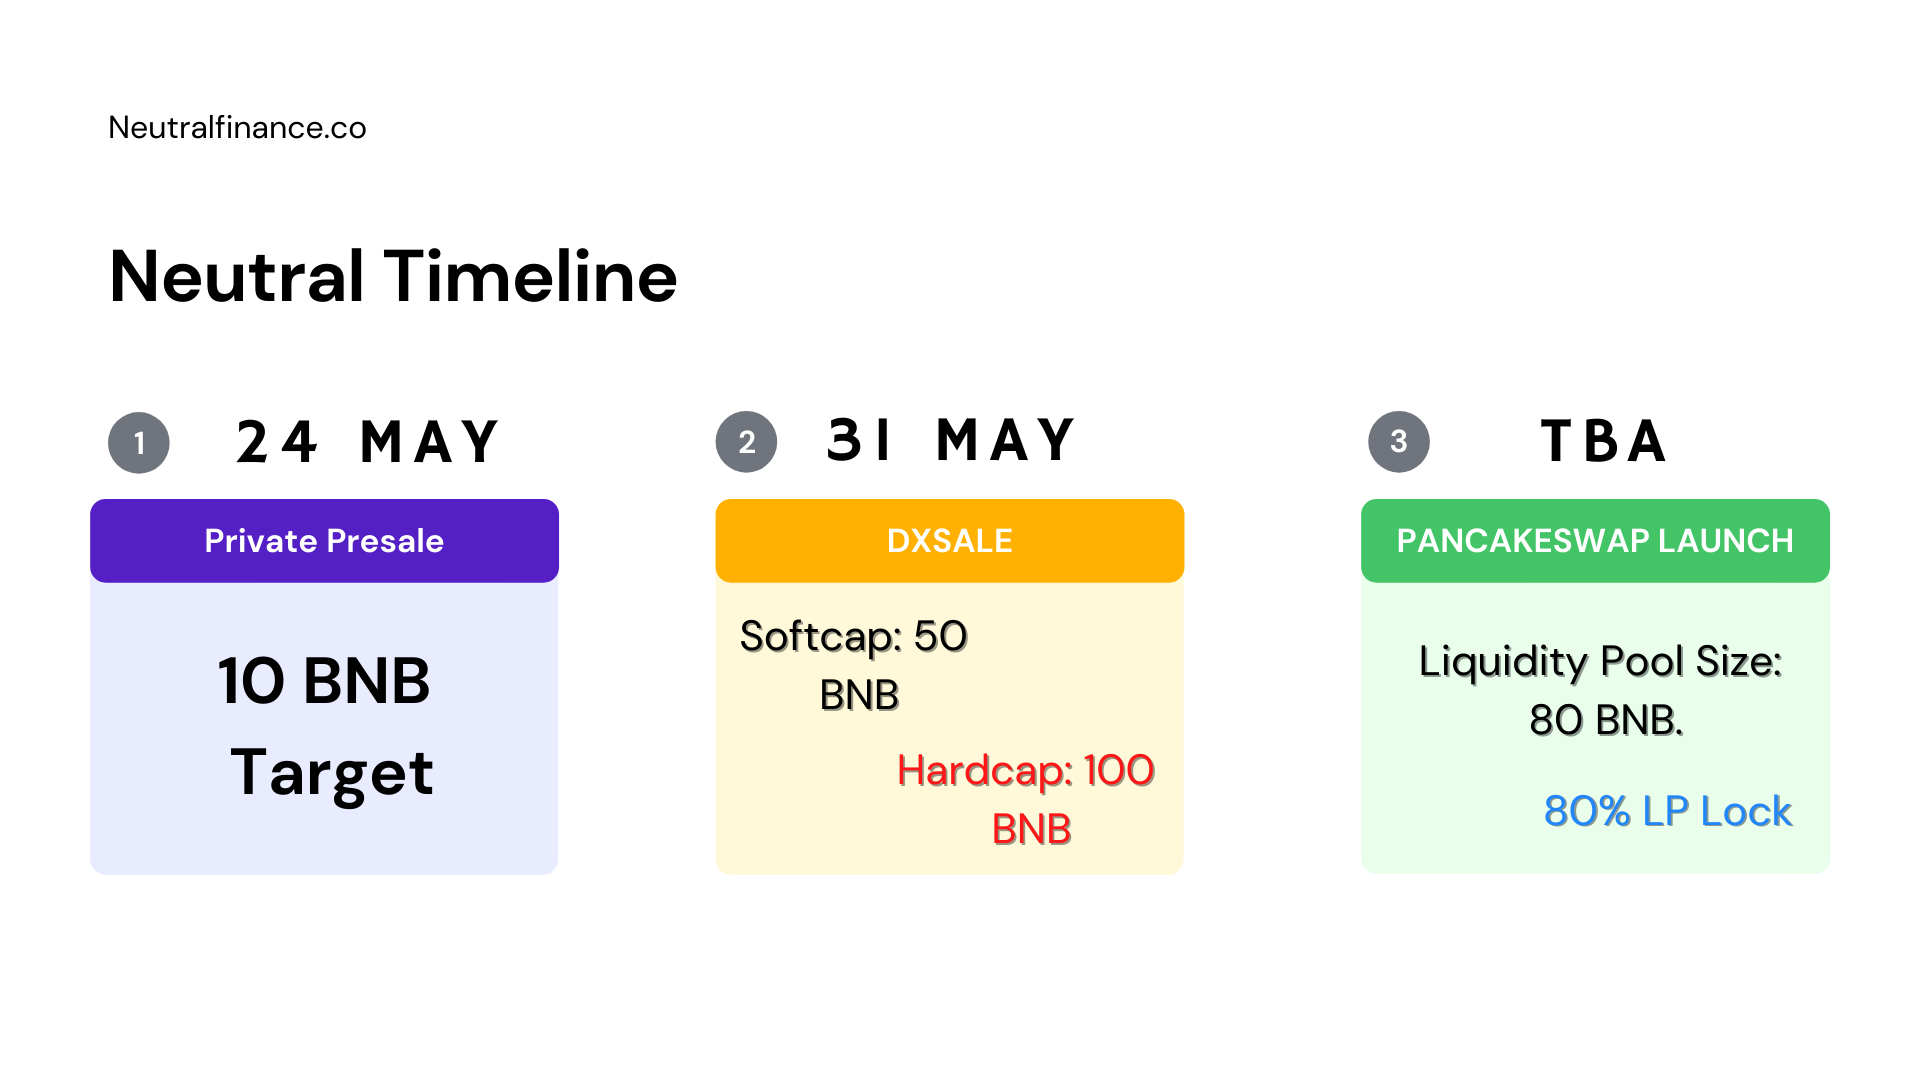
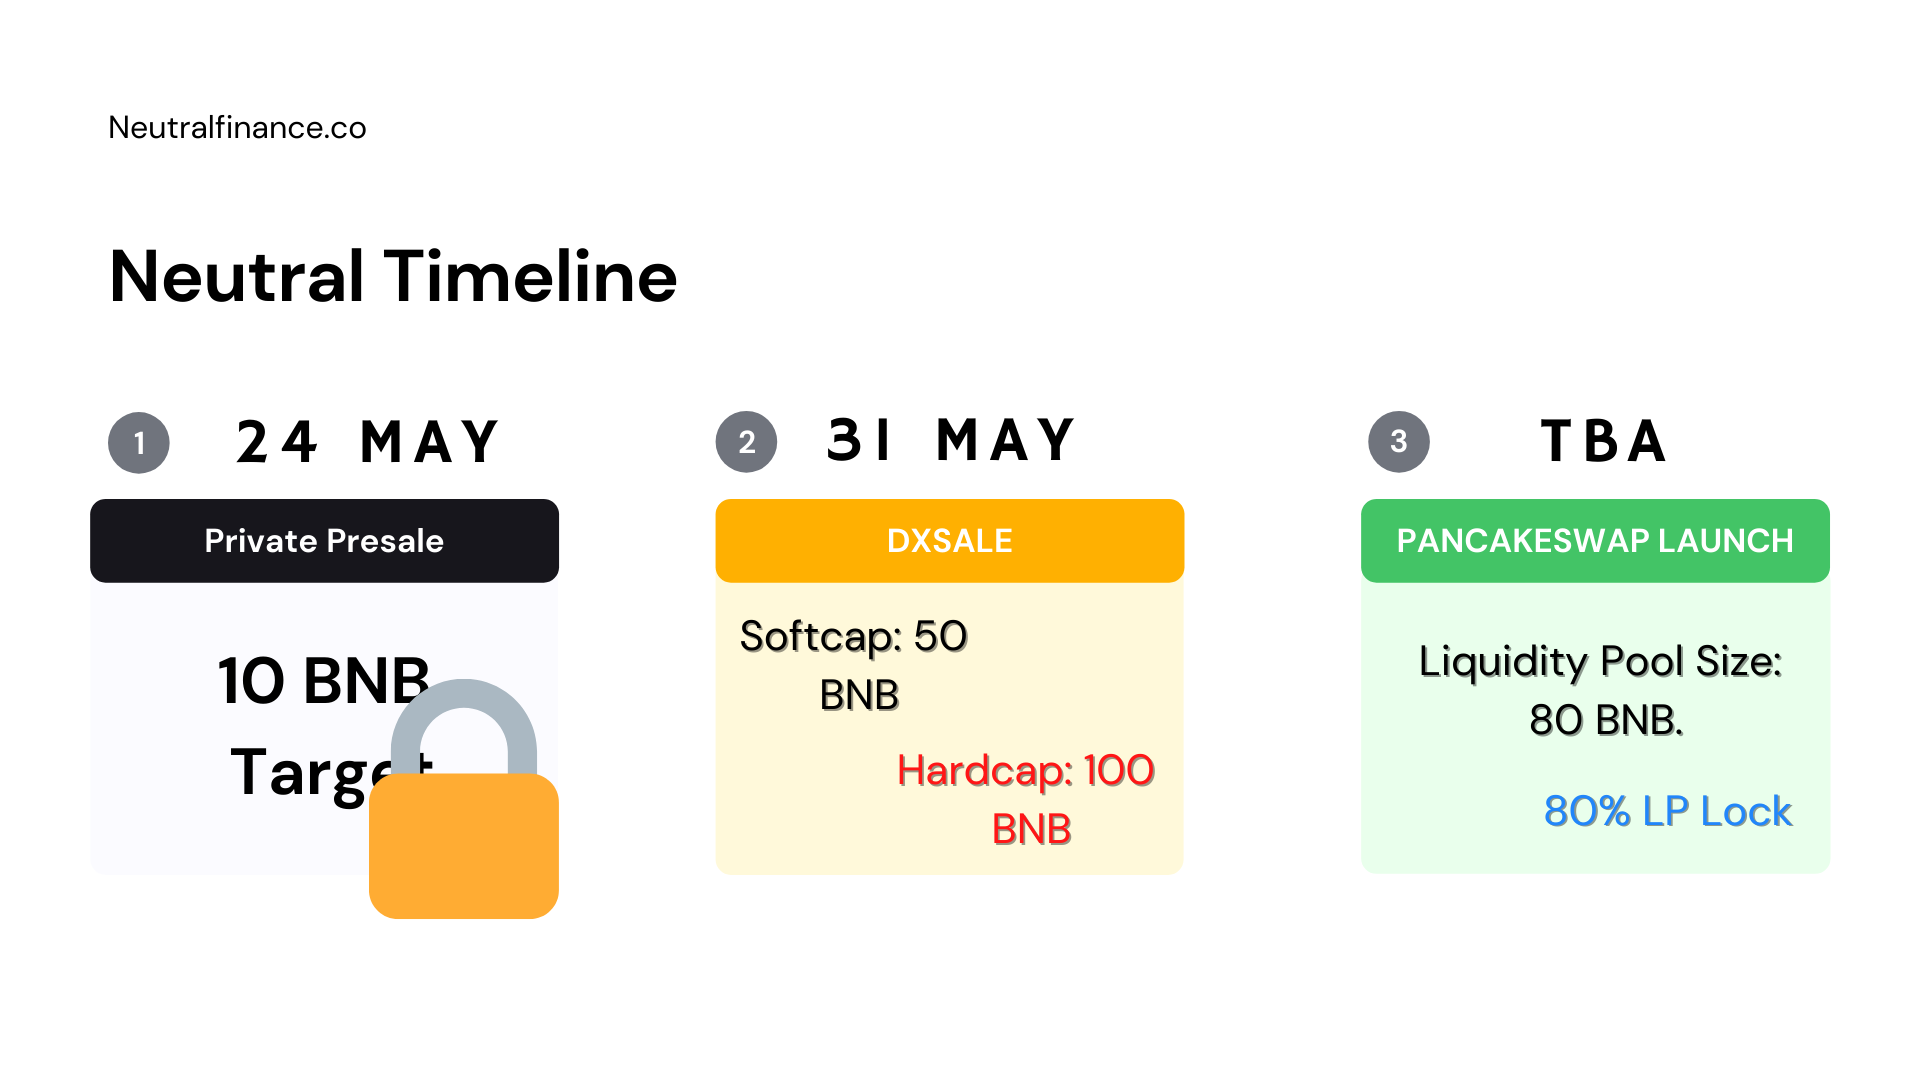
presale closed

Changed region(s): [[0.0312, 0.4583, 0.3125, 0.55], [0.1875, 0.6111, 0.3125, 0.8556]]

diff --git a/src/presale.html b/src/presale.html
@@ -99,7 +99,7 @@
 
     <div class="container">
       <h1 class="hero-headline -animatedLine">
-        On progress
+        Closed 🤝
       </h1>
     </div>
      
